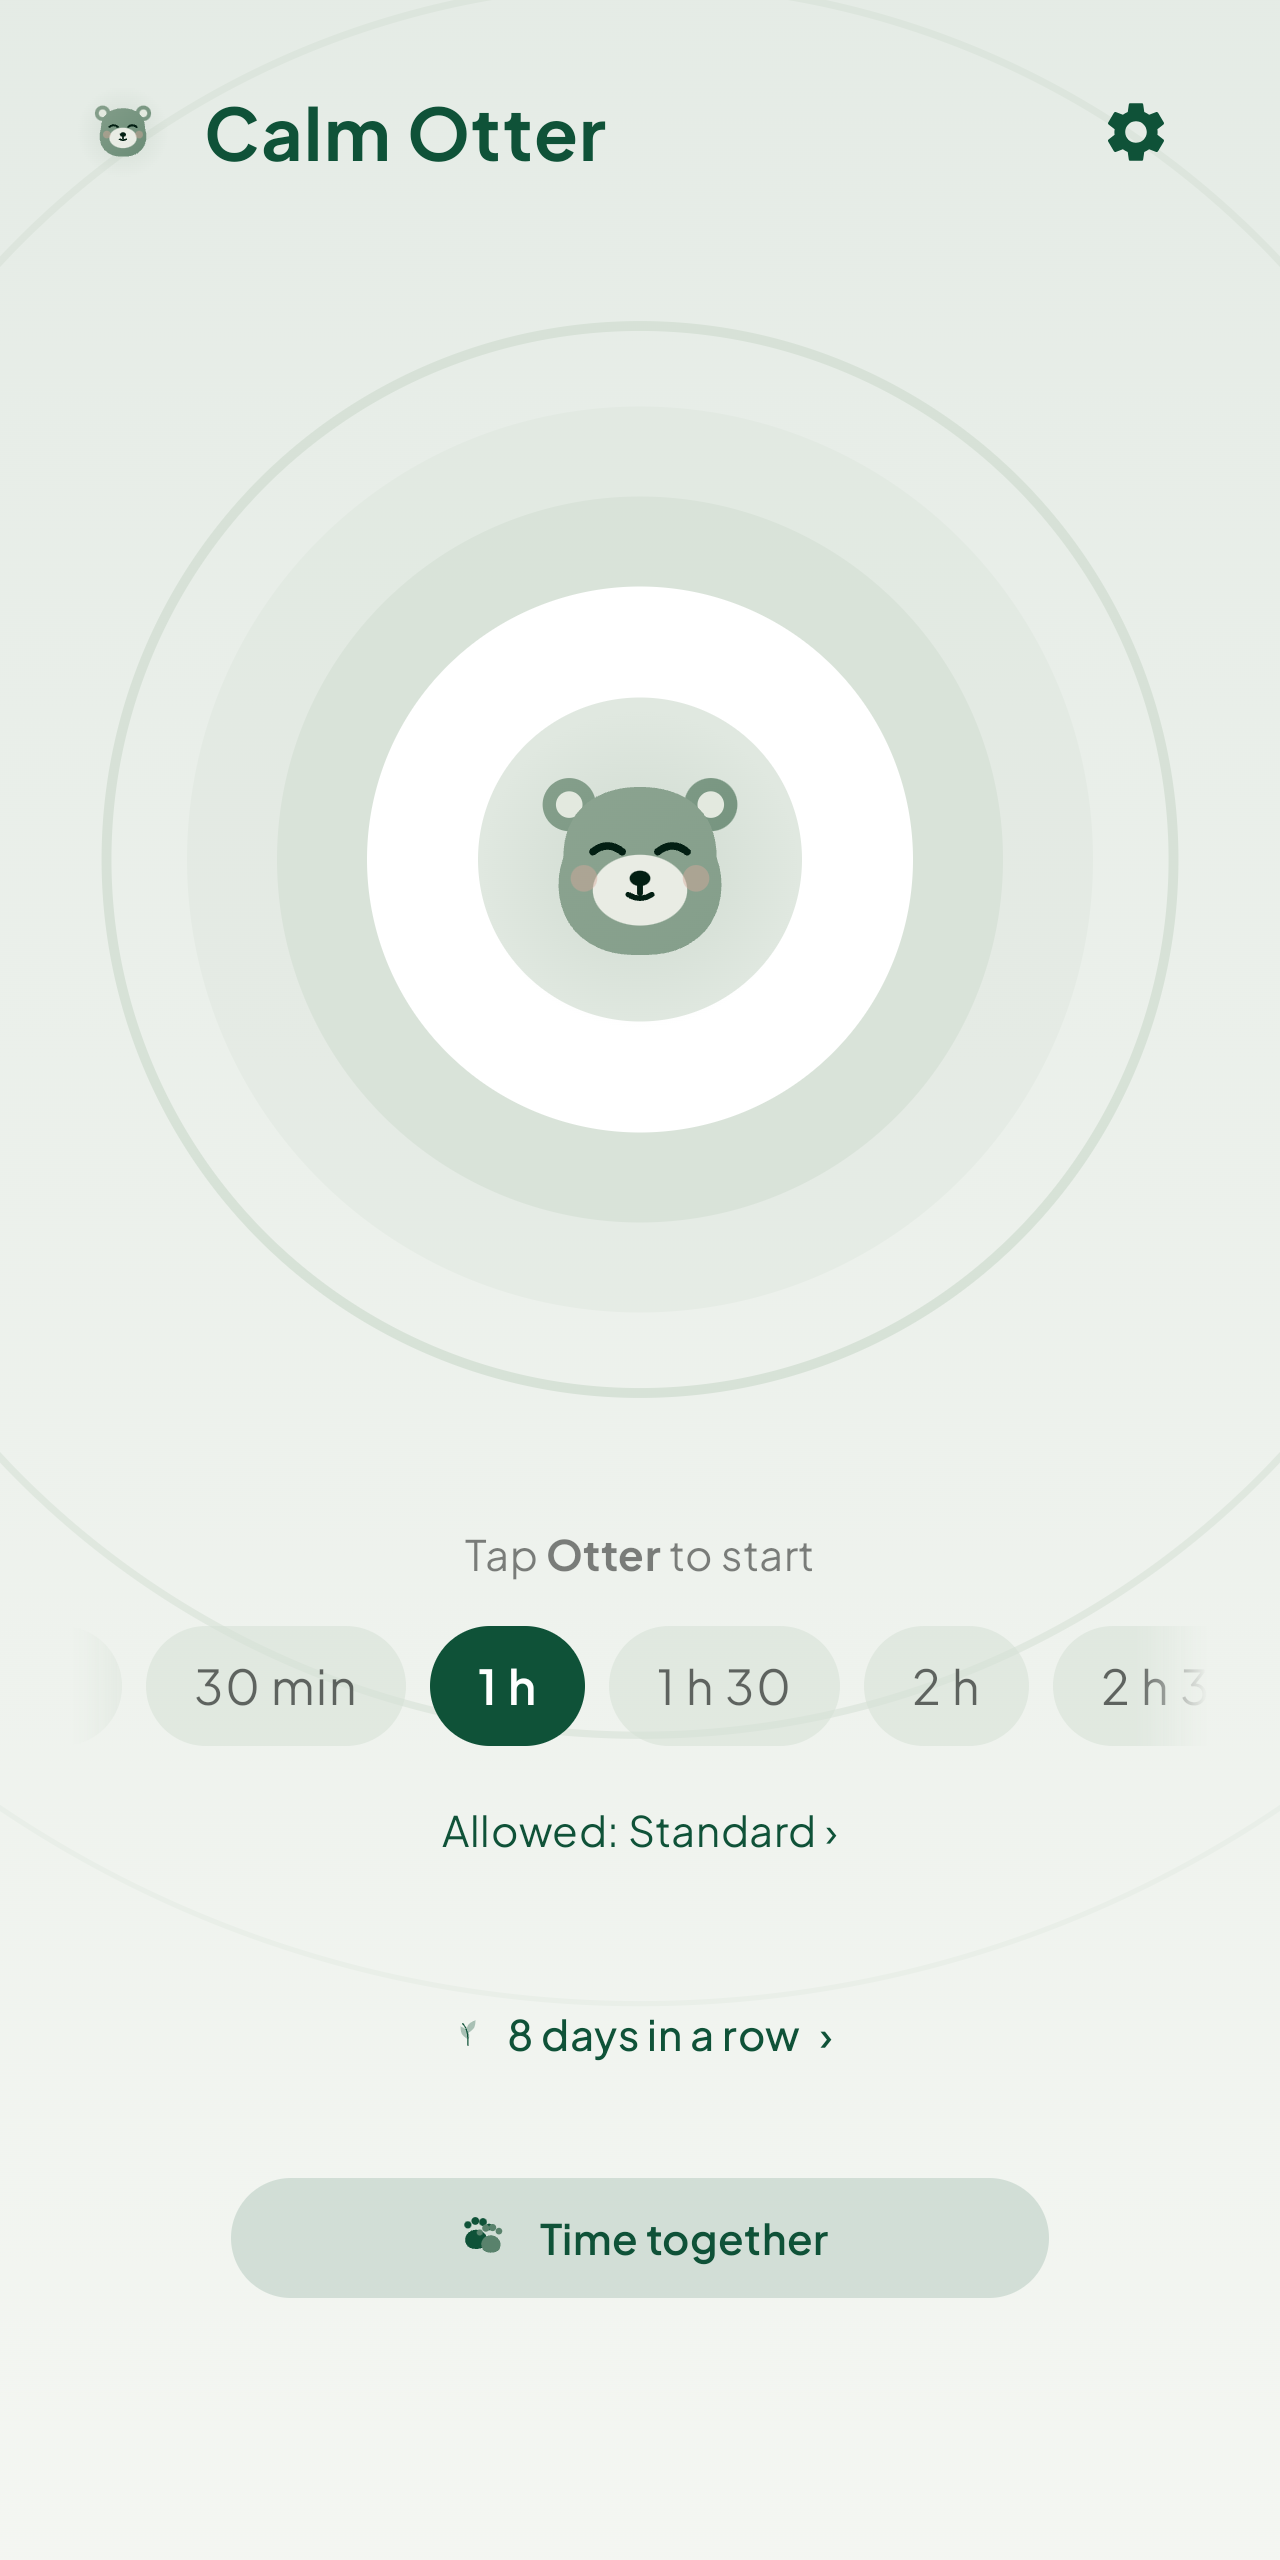
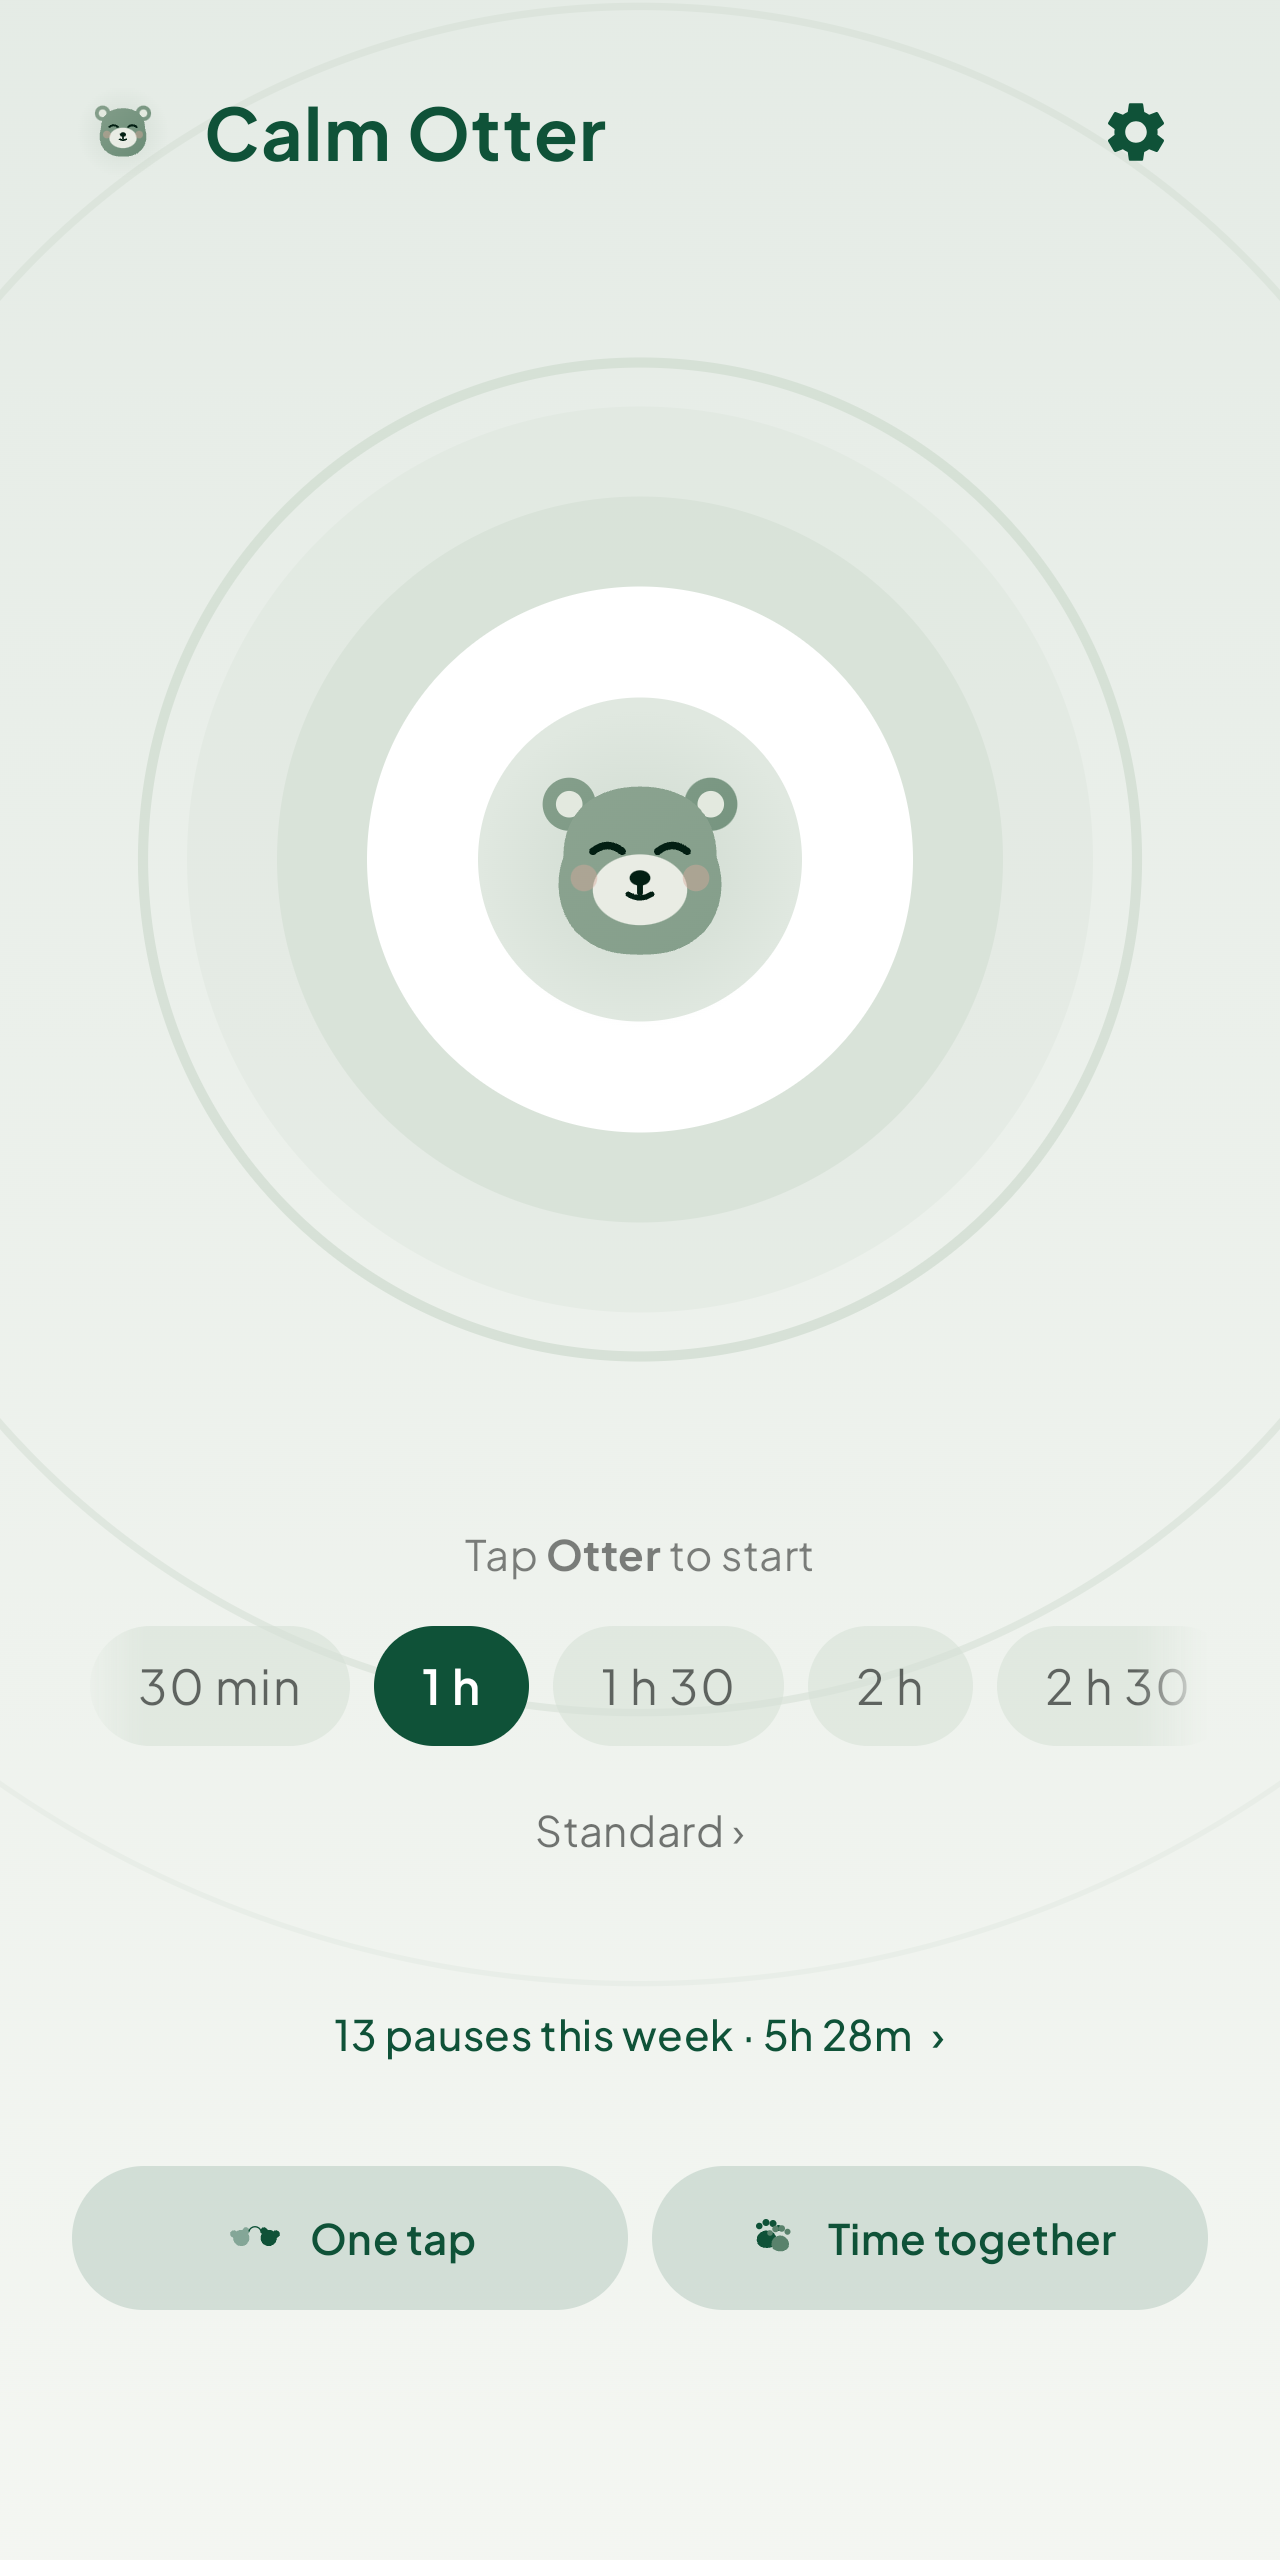
Store e README: "Con un tocco", screenshot di Home e lobby rifatti
Screenshot della Home con i due bottoni e della lobby con "↻ Un'altra
idea". Testi dello store e README raccontano il tocco NFC come modo
principale per una pausa insieme; Bluetooth, QR e codice per chi è
lontano o in più di due.

Claude-Session: https://claude.ai/code/session_01KwuuLxq878rqiSyn3QCMG4

diff --git a/docs/store/listing.md b/docs/store/listing.md
@@ -33,7 +33,7 @@ PAUSE CHE PARTONO DA SOLE
 "Nei giorni feriali alle 21:00 per un'ora", "la domenica mattina, due ore": le imposti una volta e partono da sole, con un avviso cinque minuti prima. Quelle che ti metti da solo le cambi quando vuoi; quelle protette da password, un patto con chi ti vuole bene, si allentano solo con la password.
 
 TEMPO INSIEME
-Una pausa condivisa con chi hai accanto: il partner, la famiglia, i colleghi. Un QR o un codice, oppure avvicinando i telefoni. L'app propone anche qualcosa da fare insieme — una passeggiata, una partita a carte, o niente, solo stare insieme.
+Una pausa condivisa con chi hai accanto: il partner, la famiglia, i colleghi. Basta avvicinare i telefoni: un tocco e partite insieme. Per chi è lontano, un QR o un codice. L'app propone anche qualcosa da fare insieme — una passeggiata, una partita a carte, o niente, solo stare insieme.
 
 PICCOLI RITUALI
 - Una pausa respiro di dieci minuti, con l'anello che si allarga e si stringe.
@@ -64,7 +64,7 @@ PAUSES THAT START BY THEMSELVES
 "Weekdays at 9pm for an hour", "Sunday morning, two hours": set them once and they start on their own, with a heads-up five minutes before. The ones you set for yourself are yours to change; a password-protected one, a pact with someone who cares about you, can only be loosened with the password.
 
 TIME TOGETHER
-A pause shared with whoever is next to you: your partner, your family, your colleagues. A QR or a code, or just tap the phones together. The app even suggests something to do together — a walk, a game of cards, or nothing at all, just being together.
+A pause shared with whoever is next to you: your partner, your family, your colleagues. Just hold your phones together: one tap and you start at the same moment. For anyone further away, a QR or a code. The app even suggests something to do together — a walk, a game of cards, or nothing at all, just being together.
 
 SMALL RITUALS
 - A 10-minute breathing pause, with a ring that slowly expands and contracts.

diff --git a/README.md b/README.md
@@ -81,12 +81,17 @@ Some pauses are better together. "Time together" lets two or more people
 start the *same* pause at the *same* moment, each on their own phone —
 made for a couple, a family, or a team that wants to disconnect as one:
 
+- **One tap (NFC)** — side by side, one person taps "One tap" and holds
+  their phone to the other's: that single tap carries the whole pause
+  (duration, start, activity), no Bluetooth, no pairing. Both phones count
+  down five seconds and start together. The other phone answers even with
+  Calm Otter closed, with a "Join" notification.
 - **QR / manual code** — fully offline. The host shares a code (or a QR)
   with the duration and an agreed start time baked in; everyone else
   scans or types it in. The phones never actually talk to each other —
   they just agree in advance and start together.
-- **Live lobby (Bluetooth, with NFC as a shortcut)** — the host opens a
-  lobby, everyone else joins with a tap (NFC) or a quick search, and the
+- **Live lobby (Bluetooth)** — for more than two, or without NFC: the host
+  opens a lobby, everyone else joins with a tap or a quick search, and the
   host starts once people are in. The phones connect just long enough to
   agree on a start time, then disconnect the moment the pause begins.
 
